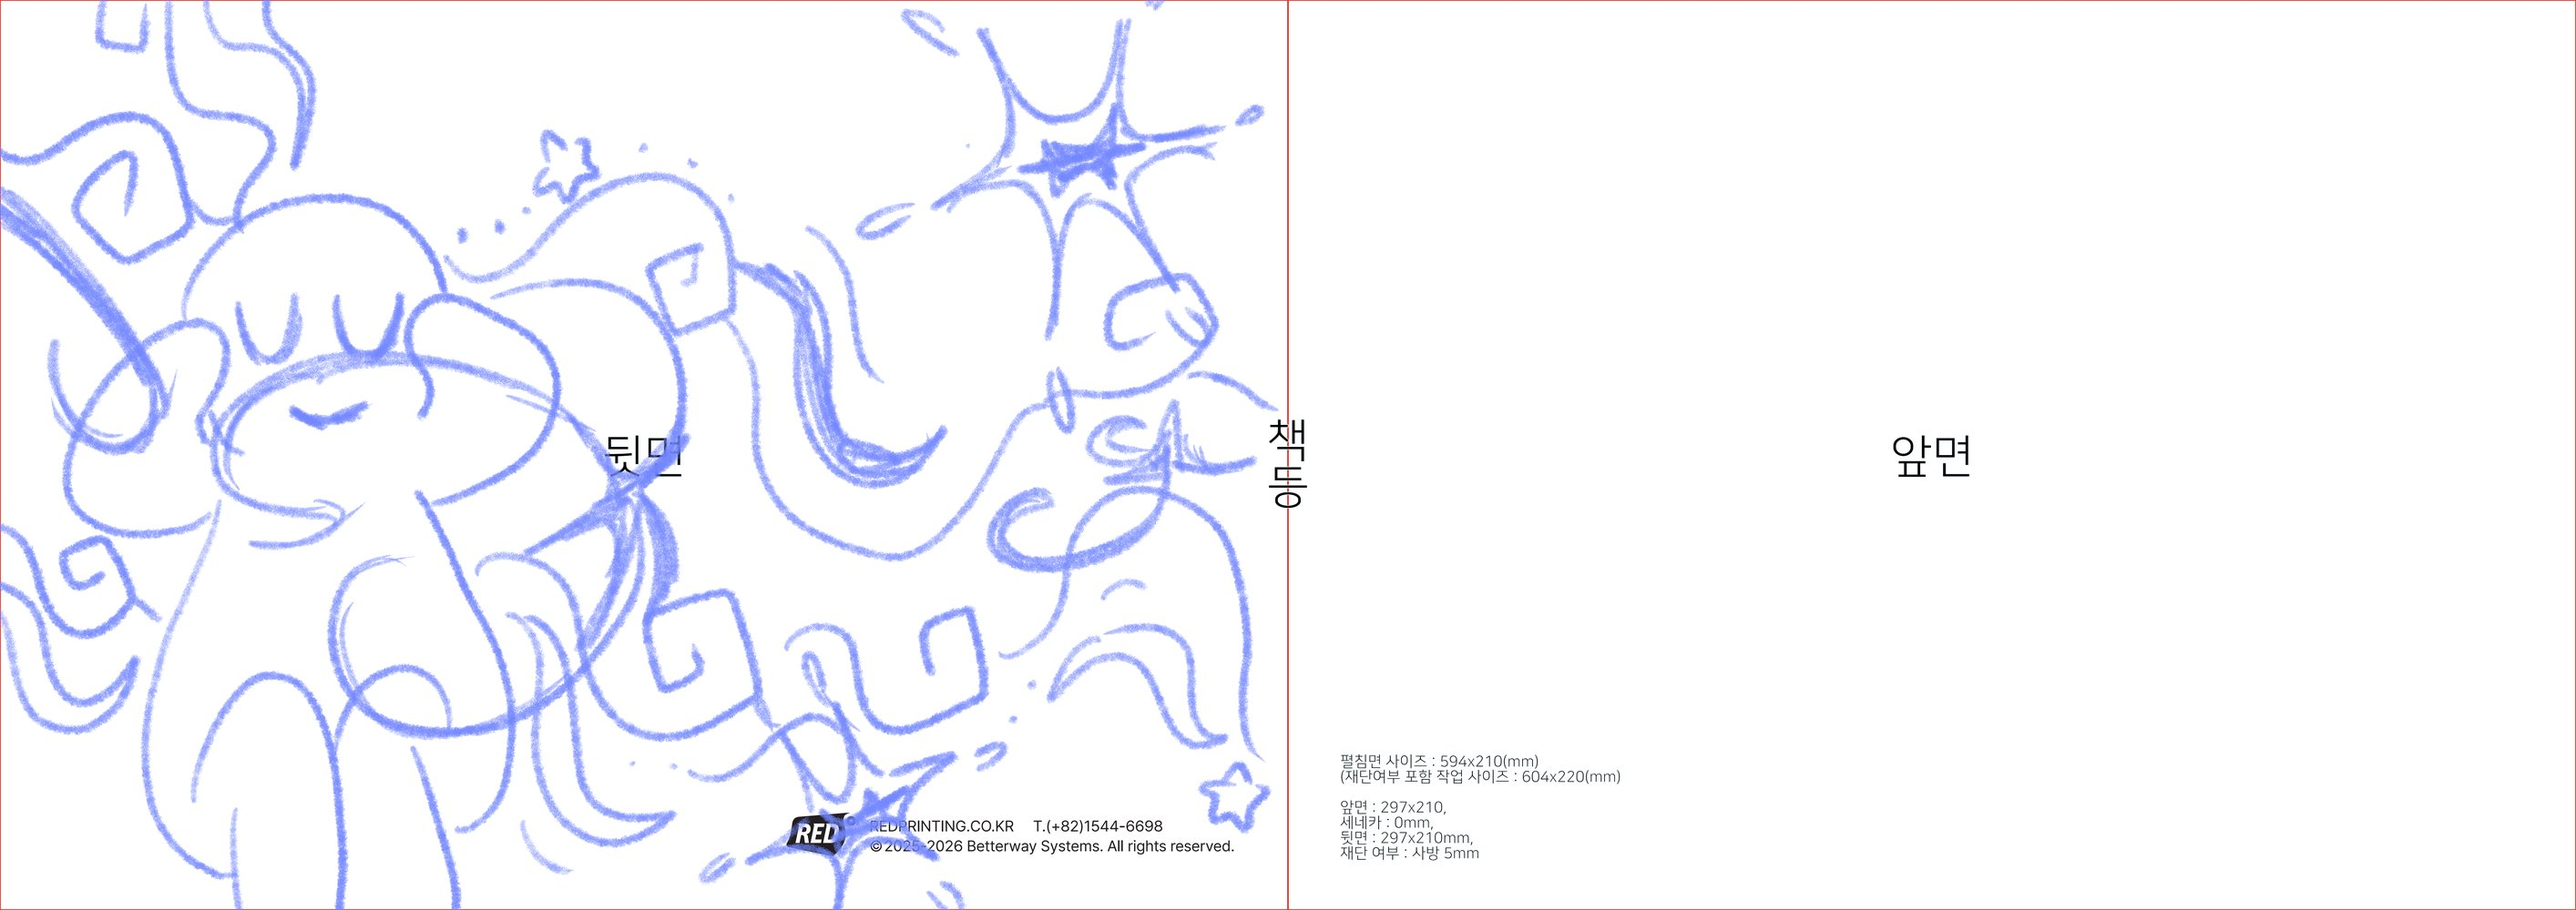
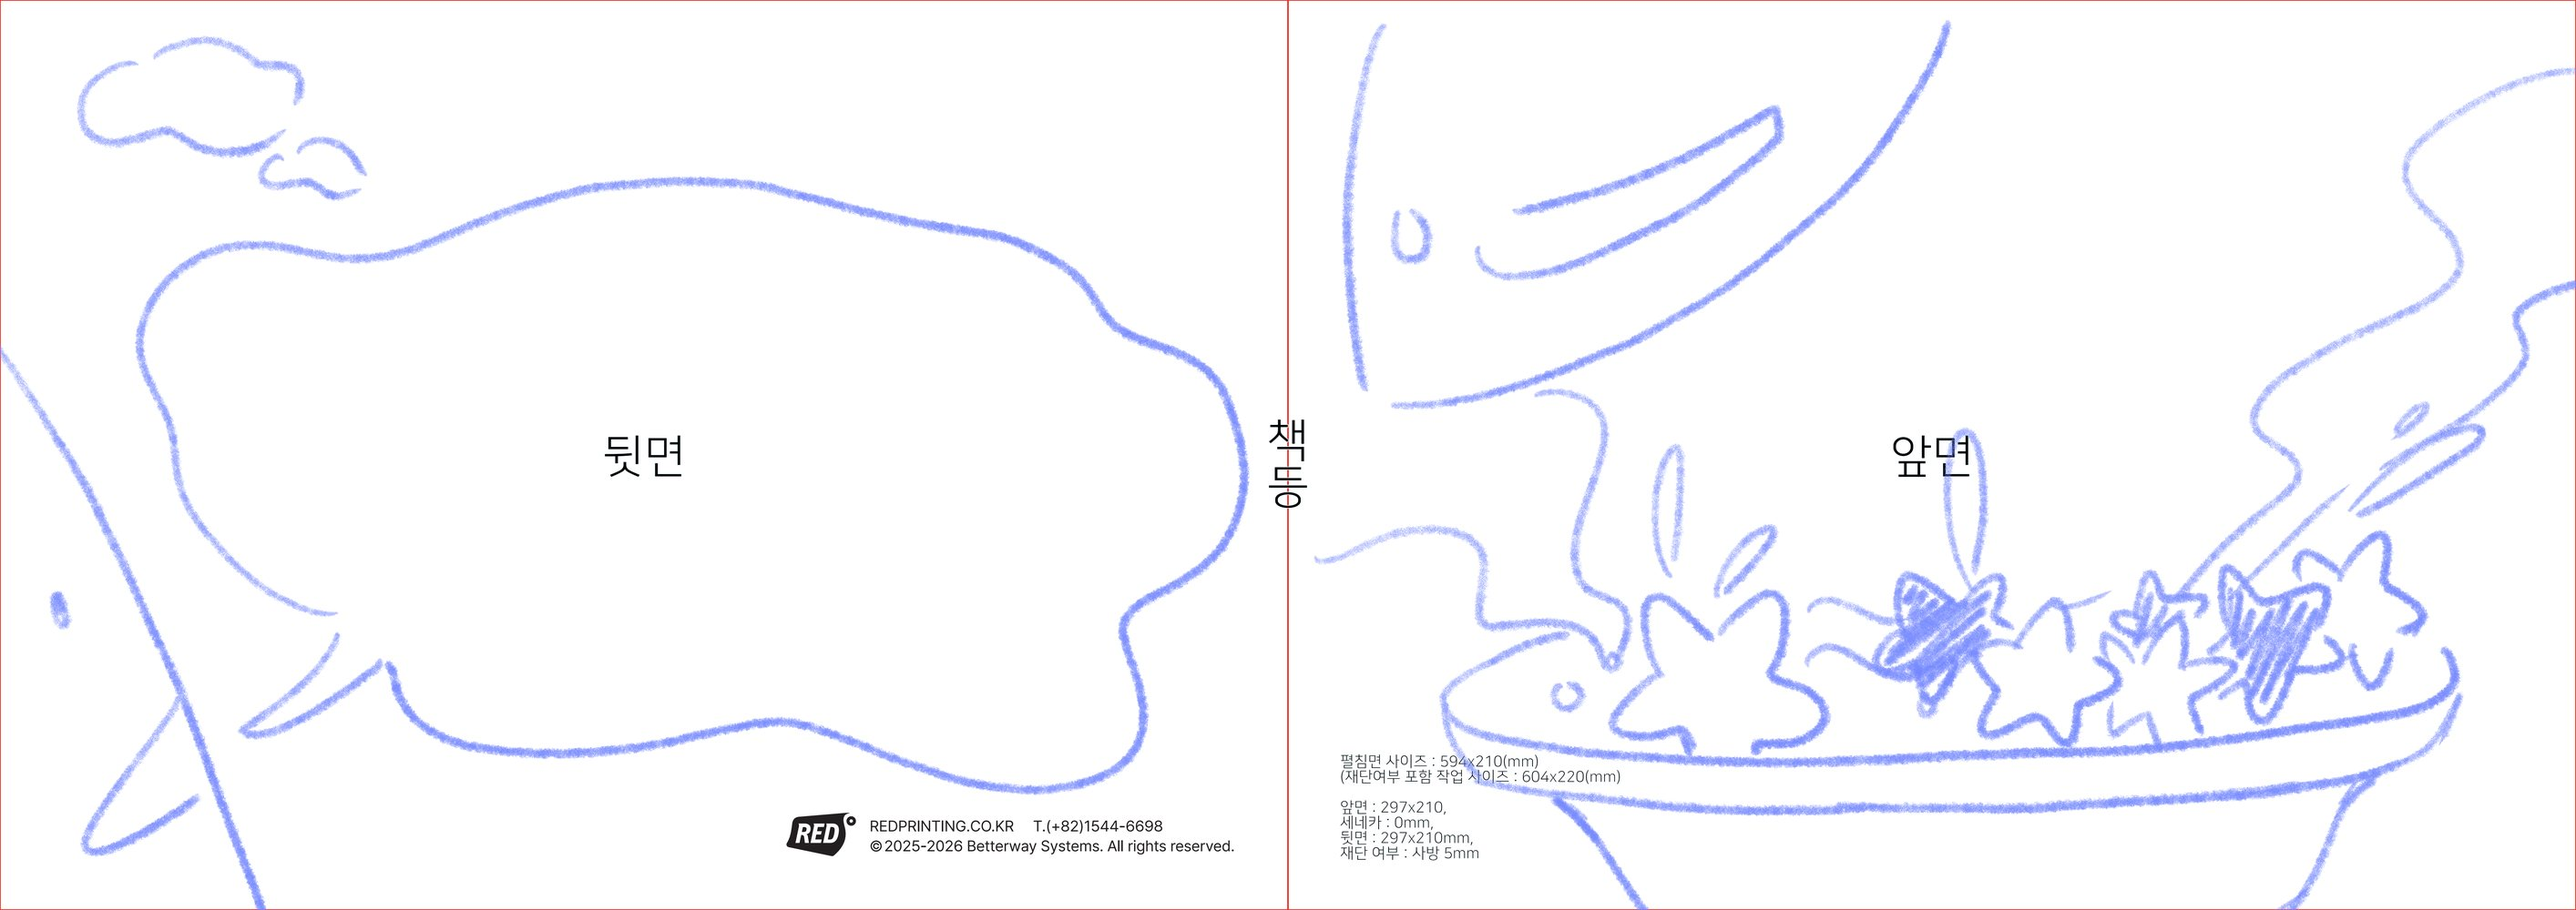
Reassign spread art for #5, #6 and #9
The art sent earlier as #5 and #6 belonged to #6 and #9. Add the real #5
spread (fairy pulling the tray, hero at the finished table), move the
old #5 art to #6 and the old #6 art to #9. Text follows the art: #5 sits
in the blank space under the fairy, #6's narration goes inside the
speech-bubble cloud with the deed input on the right page.

Claude-Session: https://claude.ai/code/session_01Nbh8N8c4tqUAvigBFfQUWv

diff --git a/storybook/js/story.js b/storybook/js/story.js
@@ -135,9 +135,9 @@
     },
     {
       id: 'fairies', act: 1, tone: 'fairy', no: '5',
-      image: 'assets/backgrounds/05-fairies-arrive.jpg', alt: '뚜껑 덮인 특별한 음식을 들고 오는 요정들',
-      // 왼쪽 쪽의 큰 구름(말풍선) 안에 글이 들어간다
-      pages: [{ text: true, place: 'center', ink: 'dark', art: 'bubble', artPos: 'bottom' }, { art: 'cloche' }],
+      image: 'assets/backgrounds/05-fairies-arrive.jpg', alt: '뚜껑 덮인 음식을 트레이에 끌고 오는 요정과 그 모습을 바라보는 주인공',
+      // 왼쪽 쪽: 위에 트레이를 끌고 오는 요정, 그 아래 빈 자리에 글 / 오른쪽 쪽: 다 먹은 식탁에서 요정을 보는 주인공
+      pages: [{ text: true, place: 'center', ink: 'dark', art: 'fairies', artPos: 'top' }, { art: 'cloche' }],
       text: function () {
         return [
           ['그렇게 음식을 먹다 보니 요정들이 무언가 음식을 가져오네요.'],
@@ -147,8 +147,9 @@
     },
     {
       id: 'deed', act: 2, tone: 'fairy', no: '6',
-      image: 'assets/backgrounds/06-fairy-praise.jpg', alt: '아이들의 착한 일을 하나하나 말해 주는 요정',
-      pages: [{ text: true, place: 'top', art: 'fairies', artPos: 'bottom' }, { widgets: ['deed'], art: 'starsky', faint: true }],
+      image: 'assets/backgrounds/06-fairy-praise.jpg', alt: '요정의 큰 말풍선과 별이 담긴 그릇',
+      // 왼쪽 쪽의 큰 구름(말풍선) 안에 요정이 하는 말이 들어간다 / 오른쪽 쪽 위에 착한 일 입력
+      pages: [{ text: true, place: 'center', ink: 'dark', art: 'bubble', artPos: 'bottom' }, { widgets: ['deed'], place: 'top', art: 'starsky', faint: true }],
       text: function (c) {
         return [
           ['요정은 아이들이 했던 착한 일들을 하나하나 말해주었어요.'],
@@ -188,7 +189,7 @@
     },
     {
       id: 'taste', act: 3, tone: 'gold', no: '9',
-      image: 'assets/backgrounds/09-taste.jpg', alt: '별빛스프를 맛보는 순간',
+      image: 'assets/backgrounds/09-taste.jpg', alt: '별빛스프의 맛이 소용돌이처럼 퍼지는 순간',
       pages: [{ text: true, place: 'top', art: 'soup', artPos: 'bottom' }, { widgets: ['taste'], art: 'starsky', faint: true }],
       require: 'taste', requirePage: 1,
       requireMessage: '스프에서 어떤 맛이 났는지 하나 골라 주세요.',
@@ -309,7 +310,7 @@
   };
 
   window.StarSoup = {
-    version: '1.7',   // 게시할 때마다 0.1씩 올린다 (index.html의 ?v= 와 맞춘다)
+    version: '1.8',   // 게시할 때마다 0.1씩 올린다 (index.html의 ?v= 와 맞춘다)
     cover: cover,
     acts: acts,
     foods: foods,

diff --git a/storybook/index.html b/storybook/index.html
@@ -8,8 +8,8 @@
 <link rel="preconnect" href="https://fonts.googleapis.com">
 <link rel="preconnect" href="https://fonts.gstatic.com" crossorigin>
 <link rel="stylesheet" href="https://fonts.googleapis.com/css2?family=Gowun+Dodum&family=Jua&display=swap">
-<link rel="stylesheet" href="css/style.css?v=1.7">
-<link rel="stylesheet" href="css/editor.css?v=1.7">
+<link rel="stylesheet" href="css/style.css?v=1.8">
+<link rel="stylesheet" href="css/editor.css?v=1.8">
 </head>
 <body>
 <div class="app" id="app" data-screen="cover">
@@ -202,9 +202,9 @@
   </div>
 </div>
 
-<script src="js/storage.js?v=1.7"></script>
-<script src="js/story.js?v=1.7"></script>
-<script src="js/drawing.js?v=1.7"></script>
-<script src="js/main.js?v=1.7"></script>
+<script src="js/storage.js?v=1.8"></script>
+<script src="js/story.js?v=1.8"></script>
+<script src="js/drawing.js?v=1.8"></script>
+<script src="js/main.js?v=1.8"></script>
 </body>
 </html>

diff --git a/storybook/README.md b/storybook/README.md
@@ -58,11 +58,11 @@ storybook/
 | 1 | 1–2 | #1 도입 | `assets/backgrounds/01-night.jpg` | 채색 완료 | 오른쪽 가운데 |
 | 2 | 3–4 | #2 식탁 + #3 이름표 | `assets/backgrounds/02-03-dream-table.jpg` | 채색 완료 | 왼쪽 아래(#2), 오른쪽 위 흰 여백(#3). 이름은 그림 속 이름표에 바로 씀 |
 | 3 | 5–6 | #4 음식 | `assets/backgrounds/04-food-choice.jpg` | 스케치 | 왼쪽 위(글, 5쪽에 음식 스티커), 오른쪽 위(고른 음식 설명) |
-| 4 | 7–8 | #5 요정의 등장 | `assets/backgrounds/05-fairies-arrive.jpg` | 스케치 | 왼쪽 큰 구름(말풍선) 안 |
-| 5 | 9–10 | #6 착한 일 | `assets/backgrounds/06-fairy-praise.jpg` | 스케치 | 왼쪽 위(글), 오른쪽(입력) |
+| 4 | 7–8 | #5 요정의 등장 | `assets/backgrounds/05-fairies-arrive.jpg` | 스케치 | 왼쪽 가운데 빈 자리(요정 아래) |
+| 5 | 9–10 | #6 착한 일 | `assets/backgrounds/06-fairy-praise.jpg` | 스케치 | 왼쪽 큰 구름(말풍선) 안, 오른쪽 위(입력) |
 | 6 | 11–12 | #7 음식 받기 | `assets/backgrounds/07-fairies-serve.jpg` | 아직 없음 | 오른쪽 위 (왼쪽에 착한 일 종이) |
 | 7 | 13–14 | #8 별빛스프 | `assets/backgrounds/08-starlight-soup.jpg` | 아직 없음 | 오른쪽 위 |
-| 8 | 15–16 | #9 맛 고르기 | `assets/backgrounds/09-taste.jpg` | 아직 없음 | 왼쪽(글), 오른쪽(카드) |
+| 8 | 15–16 | #9 맛 고르기 | `assets/backgrounds/09-taste.jpg` | 스케치 (왼쪽) | 왼쪽 위(글), 오른쪽(맛 카드) |
 | 9 | 17–18 | #10 엔딩 | `assets/backgrounds/10-wake-up.jpg` | 왼쪽 채색 완료 | 왼쪽 위(글), 오른쪽(나의 기록) |
 
 - 콘티의 #2와 #3은 펼침면 한 장(3–4쪽)입니다. 그래서 책은 모두 9개 펼침면, 18쪽입니다.
